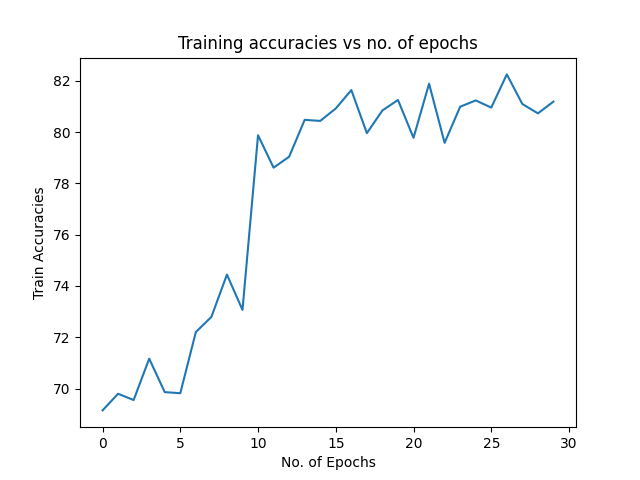
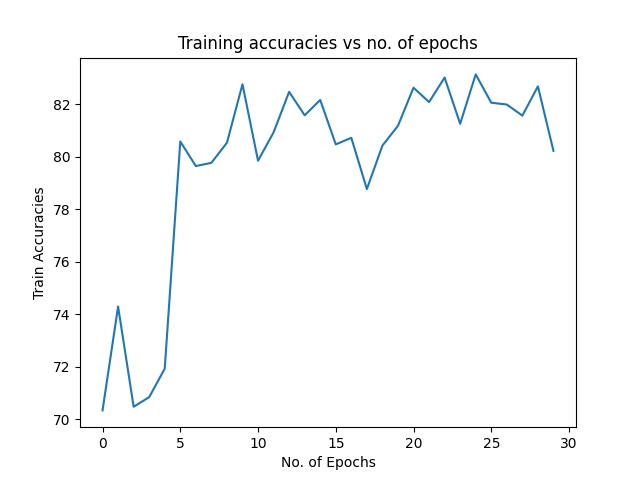
add inception unet

diff --git a/model.py b/model.py
@@ -102,9 +102,14 @@ class InceptionBlock(nn.Module):
             nn.ReLU(inplace=True)
         )
 
+        #self.upConv = nn.ConvTranspose2d(out_channels*4, out_channels*4, kernel_size=2, stride=2)
+
     def forward(self, x):
-        outputs = [self.double_conv1(x), self.double_conv2(x), self.double_conv3(x), self.double_conv4(x)]
-        return torch.cat(outputs, dim=1)
+    
+        concat = [self.double_conv1(x), self.double_conv2(x), self.double_conv3(x), self.double_conv4(x)]
+        output = torch.cat(concat, dim=1)
+
+        return output#self.upConv(output)
 
 
 class UNET(nn.Module):
@@ -237,6 +242,107 @@ class Attention_UNET(nn.Module):
 
             #passing the concatenated ouptut, to the double convolutional layers
             x = self.ups[idx+2](concat_skip)
+
+        return self.final_conv(x)
+
+
+
+class Inception_UNET(nn.Module):
+    def __init__(
+            self, in_channels=3, out_channels=1, features=[64, 128, 256, 512],
+    ):
+        super(Inception_UNET, self).__init__()
+        #module list for encoder layers
+        self.downs = nn.ModuleList()
+        #max pooling
+        self.pool = nn.MaxPool2d(kernel_size=2, stride=2)
+        #module list for the decoder layers
+        self.ups = nn.ModuleList()
+
+        #module list for inpception blocks
+        self.inception_blocks = nn.ModuleList()
+
+        #up convolution for inception block
+        self.ups_inception_block = nn.ModuleList()
+
+
+        #inception blocks
+        for index in  range(0, len(features)):
+            if features[index] == features[-1]:
+                out_ch = features[index]//4
+            else:
+                out_ch = features[index+1]//4
+            self.inception_blocks.append(InceptionBlock(features[index], out_ch))
+            self.ups_inception_block.append(nn.ConvTranspose2d(out_ch*4, out_ch*4, kernel_size=2, stride=2))
+
+
+        # Down part of UNET
+        for feature in features:
+            self.downs.append(DoubleConv(in_channels, feature))
+            in_channels = feature
+
+        # Up part of UNET
+        for feature, feature2 in zip(reversed(features), [1536,1024, 512, 256]):
+            ### up convolution
+            self.ups.append(
+                nn.ConvTranspose2d(
+                    feature*2, feature, kernel_size=2, stride=2,
+                )
+            )
+
+            ### double convolution
+            self.ups.append(DoubleConv(feature2, feature))
+
+            
+
+        self.bottleneck = DoubleConv(features[-1], features[-1]*2)
+        self.final_conv = nn.Conv2d(features[0], out_channels, kernel_size=1)
+
+       
+
+    def forward(self, x):
+        skip_connections = []
+
+        for down in self.downs:
+            x = down(x)
+            skip_connections.append(x)
+            x = self.pool(x)
+
+        x = self.bottleneck(x)
+        
+
+        #inception blocks
+        output_blocks = []
+        for index in range(0, len(self.inception_blocks)):
+            if index == 0:
+                block = skip_connections[0]
+            
+            block = self.inception_blocks[index](block)
+            output_blocks.append(block)
+
+        #up convolution for the inception block
+        up_convolved_block = []
+        for index, upconv in enumerate(self.ups_inception_block):
+            up_convolved_block.append(upconv(output_blocks[index]))
+
+
+        #reversing the list of the skip connections
+        skip_connections = skip_connections[::-1]
+
+        for idx in range(0, len(self.ups), 2):
+            x = self.ups[idx](x)
+            skip_connection = skip_connections[idx//2]
+            
+            #if the resolution of the input image is not completely devisible, then it will skip the reminder
+            # and the resolution will not be equal in this case, so we are resizing it incase in they are not equal
+            if x.shape != skip_connection.shape:
+                x = TF.resize(x, size=skip_connection.shape[2:])
+
+
+            concat_skip = torch.cat((skip_connection,up_convolved_block[(-(idx//2 + 1))], x), dim=1)
+
+            #passing the concatenated ouptut, to the double convolutional layers
+            x = self.ups[idx+1](concat_skip)
 
         return self.final_conv(x)
 

diff --git a/train.py b/train.py
@@ -6,7 +6,7 @@ import numpy as np
 
 
 from utils import get_loaders, Fit
-from model import UNET, Attention_UNET
+from model import UNET, Attention_UNET, Inception_UNET
 from focal_loss import FocalLoss
 
 import os
@@ -64,7 +64,7 @@ def main():
     )
 
     loss_fn = nn.BCEWithLogitsLoss()
-    
+
     """
     print("Simple Unet")
     model = UNET(in_channels=3, out_channels=1)
@@ -72,14 +72,18 @@ def main():
     optimizer = optim.Adam(model.parameters(), lr=LEARNING_RATE)
 
     Fit(model=model,train_dl=train_dl, test_dl=test_dl, loss_fn=loss_fn, optimizer=optimizer, epochs=NUM_EPOCHS, device=DEVICE)
-    """
+    
     print("Attention U-Net")
     model = Attention_UNET(in_channels=3, out_channels=1)
     model.to(device=DEVICE)
     optimizer = optim.Adam(model.parameters(), lr=LEARNING_RATE)
     Fit(model=model,train_dl=train_dl, test_dl=test_dl, loss_fn=loss_fn, optimizer=optimizer, epochs=NUM_EPOCHS, device=DEVICE)
-
-
+    """
+    print("Inception U-Net")
+    model = Inception_UNET(in_channels=3, out_channels=1)
+    model.to(device=DEVICE)
+    optimizer = optim.Adam(model.parameters(), lr=LEARNING_RATE)
+    Fit(model=model,train_dl=train_dl, test_dl=test_dl, loss_fn=loss_fn, optimizer=optimizer, epochs=NUM_EPOCHS, device=DEVICE)
 
 
 if __name__ == "__main__":
